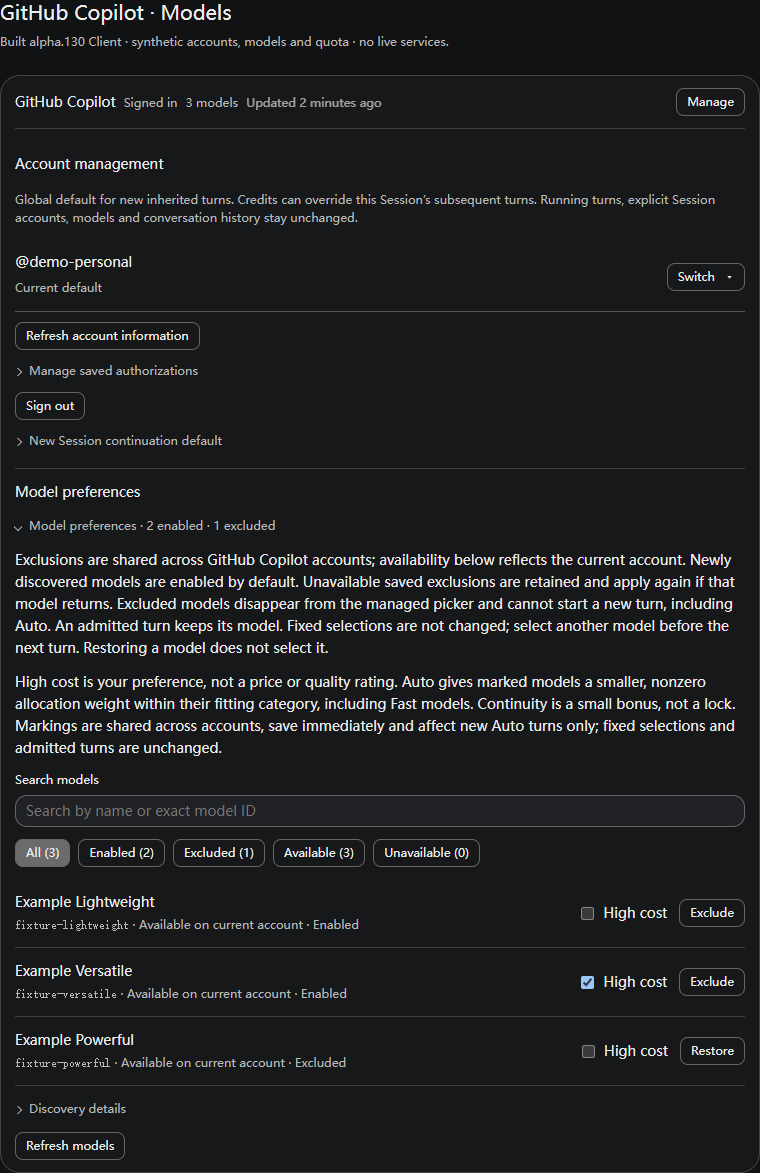
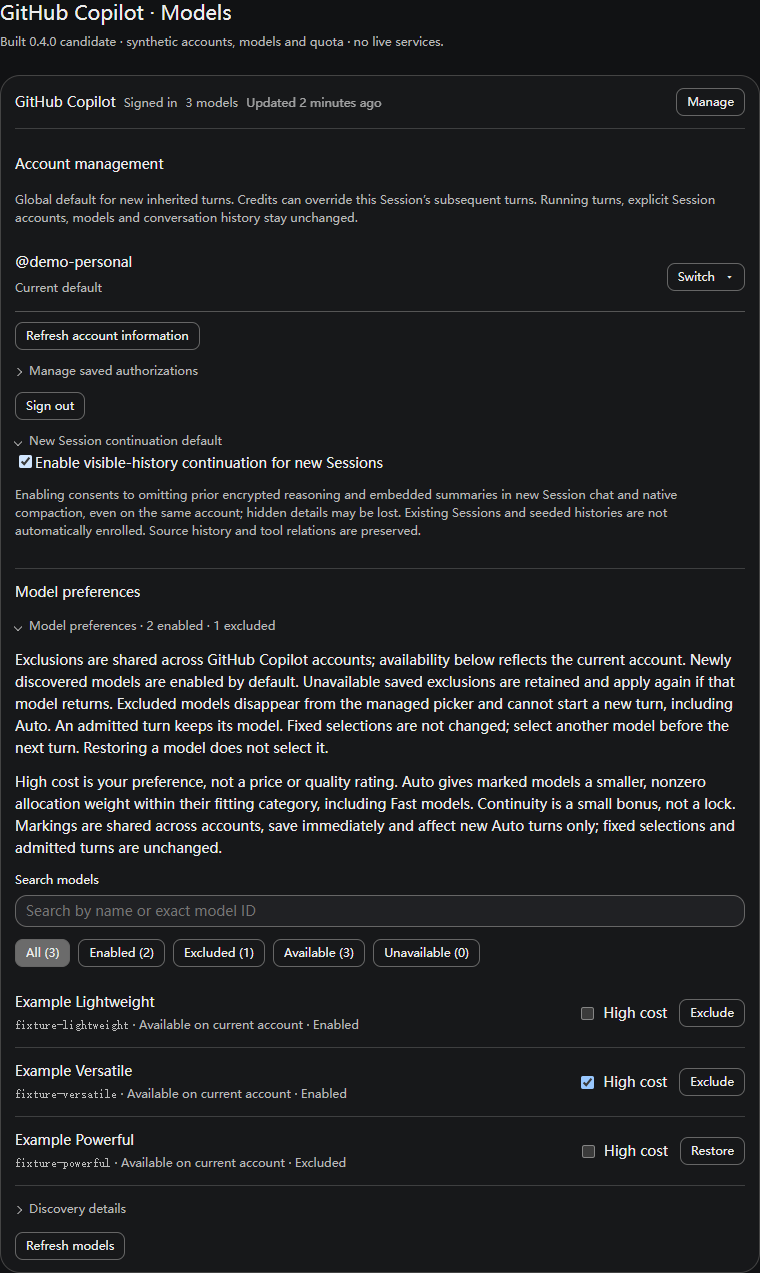
Release v0.4.0 stable with current settings guidance (#382)
* release: promote 0.4.0 and refresh user guidance

Fixes #381

Assisted-by: GitHub Copilot

* test: assert visible-history policy in screenshot fixture

Assisted-by: GitHub Copilot

* test: capture expanded continuation disclosure

Assisted-by: GitHub Copilot

* docs: add current settings screenshots (#381)

Assisted-by: GitHub Copilot

---------

diff --git a/tests/browser/readme.html b/tests/browser/readme.html
@@ -9,12 +9,12 @@
 main{max-width:760px;margin:auto}h1{font-size:20px;font-weight:500;margin:0 0 8px}.fixture-note{font-size:12px;line-height:18px;color:var(--dsw-alias-label-secondary);margin:0 0 24px}body[data-surface=credits] #app{min-height:calc(100vh - 130px);display:flex;align-items:flex-end}body[data-theme=light]{color-scheme:light;--dsw-alias-bg-layer-1:#fff;--dsw-alias-label-primary:#242424;--dsw-alias-label-secondary:#595959;--dsw-alias-border-l2:#999;--dsw-alias-settings-card-fill:#fff;--dsw-alias-settings-card-stroke:#bbb;background:#fafafa;color:#242424}@media(max-width:480px){body{padding:16px 12px}}
 </style></head><body><main>
 <h1 id="title">GitHub Copilot · Models</h1>
-<p class="fixture-note">Built alpha.130 Client · synthetic accounts, models and quota · no live services.</p>
+<p class="fixture-note">Built __CLIENT_VERSION__ candidate · synthetic accounts, models and quota · no live services.</p>
 <div id="app"></div>
 </main>
 <script src="/react.js"></script><script src="/react-dom.js"></script>
-<script>window.__ModuleLoader__={load:entry=>{window.CopilotUI=entry.factory(id=>{if(id==='react')return window.React;throw new Error('Unexpected dependency: '+id)})}};</script>
-<script src="/client.js"></script>
+<script>window.__ModuleLoader__={load:entry=>{const value=entry.factory(id=>{if(id==='react')return window.React;throw new Error('Unexpected dependency: '+id)});if(entry.id==='dsh-github-copilot')window.CopilotUI=value;else if(entry.id==='dsh-github-copilot-continuation-capture')window.CopilotContinuation=value}};</script>
+<script src="/client.js"></script><script src="/continuation.js"></script>
 <script>
 const h=React.createElement, UI=window.CopilotUI, q=new URLSearchParams(location.search);
 document.body.dataset.theme=q.get('theme')||'dark';
@@ -38,6 +38,7 @@ const remote={status:()=>ok(view),getModelPreferences:()=>ok(preferences),setMod
 const accountsRemote={get:()=>ok(accounts),ensureIdentity:()=>ok(accounts),refreshIdentity:()=>ok(accounts),
   add:forbidden,cancel:forbidden,switchAccount:forbidden,reauthorize:forbidden,removeAccount:forbidden};
 const continuationRemote={defaults:()=>ok({enabled:true,revision:7}),setDefault:forbidden};
+const sessionContinuationRemote={get:()=>ok({enabled:true,revision:7,activeTurnEnabled:false,source:'session'}),set:forbidden};
 const sessionView={source:'global',accountId:'canonical',globalAccountId:'canonical',accounts};
 const usage={accountId:'canonical',state:'ready',billing:'credits',budget:'individual',used:42.25,remaining:57.75,limit:100,percentUsed:42.25,observedAt:now};
 const root=ReactDOM.createRoot(document.getElementById('app'));
@@ -52,7 +53,9 @@ if(q.get('surface')==='settings'){
   document.getElementById('title').textContent='GitHub Copilot · Session Credits';
   root.render(h(UI.CopilotUsageCard,{contextKey:'synthetic-session',locale:'en-US',
     remote:{get:()=>ok(usage),refresh:()=>ok(usage)},accountsRemote,
-    sessionAccount:{get:()=>ok(sessionView),set:forbidden}}));
+    sessionAccount:{get:()=>ok(sessionView),set:forbidden},
+    continuation:h(window.CopilotContinuation.SessionContinuationCard,{sessionId:'synthetic-session',
+      remote:sessionContinuationRemote,locale:'en-US',expanded:true})}));
 }else root.render(h(UI.GitHubCopilotCompactAccount,{remote,account,accountsRemote,continuationRemote,locale:'en-US'}));
-window.fixture={synthetic:true,version:'0.4.0-alpha.130'};
+window.fixture={synthetic:true,version:'__CLIENT_VERSION__'};
 </script></body></html>

diff --git a/tests/browser/capture-continuation.config.ts b/tests/browser/capture-continuation.config.ts
@@ -1,0 +1,23 @@
+import { defineConfig } from 'tsdown'
+
+export default defineConfig({
+  name: 'readme-continuation-capture',
+  entry: { continuation: 'continuation-capture-entry.ts' },
+  outDir: '../../artifacts/readme-capture',
+  format: 'cjs',
+  platform: 'browser',
+  target: 'es2024',
+  dts: false,
+  sourcemap: false,
+  clean: true,
+  deps: {
+    neverBundle: specifier => specifier === 'react',
+    alwaysBundle: specifier => specifier !== 'react',
+  },
+  outputOptions: {
+    entryFileNames: 'continuation.js',
+    banner: 'window.__ModuleLoader__.load({ id: "dsh-github-copilot-continuation-capture", factory: (require) => {',
+    footer: 'return module.exports; } });',
+    intro: 'var module = { exports: {} }; var exports = module.exports;',
+  },
+})

diff --git a/tests/browser/continuation-capture-entry.ts b/tests/browser/continuation-capture-entry.ts
@@ -1,0 +1,1 @@
+export { SessionContinuationCard } from '../../src/session-continuation-ui.ts'

diff --git a/README.md b/README.md
@@ -1,14 +1,14 @@
 # dsh-github-copilot
 
 [![CI](https://github.com/cloga/dsh-github-copilot/actions/workflows/ci.yml/badge.svg)](https://github.com/cloga/dsh-github-copilot/actions/workflows/ci.yml)
-[![Release](https://img.shields.io/github/v/release/cloga/dsh-github-copilot?include_prereleases)](https://github.com/cloga/dsh-github-copilot/releases)
+[![Release](https://img.shields.io/github/v/release/cloga/dsh-github-copilot)](https://github.com/cloga/dsh-github-copilot/releases)
 [![License](https://img.shields.io/github/license/cloga/dsh-github-copilot)](./LICENSE)
 
 **English** | [简体中文](./README.zh.md)
 
 GitHub Copilot account discovery, contextual Auto routing and hosted search for DSH. The plugin reuses DSH's published native adapter, retaining a profile-wide account default with independent Session next-turn choices; it does not patch Core or maintain a second model catalog.
 
-**Current release: [`0.4.0-alpha.134`](https://github.com/cloga/dsh-github-copilot/releases/tag/v0.4.0-alpha.134). Supported host: official DSH / Windows Desktop `0.2.0-rc.2`.** This is still an alpha release, not a stable-channel promotion. Earlier DSH pins are historical evidence, not supported installation targets. Published, installed in a profile and loaded by a running Host are separate states.
+**First stable release: [`0.4.0`](https://github.com/cloga/dsh-github-copilot/releases/tag/v0.4.0). Supported host: official DSH / Windows Desktop `0.2.0-rc.2`.** The stable version is also published on npm's `latest` dist-tag; prereleases remain on their channel tags. Stability-channel promotion does not expand the qualified host baseline or prove live account, model, search or Desktop health. Earlier DSH pins are historical evidence, not supported installation targets. Published, installed in a profile and loaded by a running Host are separate states.
 
 ## What you can do
 
@@ -54,21 +54,26 @@ Replace the placeholders with the reviewed file/profile and a new absolute outpu
 | Sign in and manage account models | **Settings → Models → GitHub Copilot → Sign in** |
 | Add or switch GitHub accounts | **Manage → Account management → Switch**; managed-only profiles |
 | Select this Session's next-turn account | **Credits → Switch account**; saved authorizations only |
+| Return this Session to the global default account | **Credits → Follow global default**; account selection only, not the model |
 | Exclude or restore individual models | **Manage → Model preferences** |
 | Choose models automatically | Pick **Auto · Balance**, **Auto · Efficiency** or **Auto · Intelligence** |
 | Follow a parent model in supported subagents | **Plugins → dsh-github-copilot → Details → Follow parent model** |
 | Choose primary/fallback search providers | **Plugin details → Web search** |
+| Set the visible-history default for new Sessions | **Settings → Models → GitHub Copilot → Manage → New Session continuation default** |
+| Enable visible-history for an existing Session | Select a managed Copilot model, open the composer **Credits/usage** pill → **Visible-history continuation** → **Session policy → On** |
 | Read account Credits and context evidence | Copilot Session composer; native Turn Usage stays separate |
 
-![Current built Client account controls and model preferences](./docs/images/copilot-model-preferences.png)
+![Client account controls and model preferences](./docs/images/copilot-model-preferences.png)
 
-Current alpha.130 built Client components in an isolated browser, with synthetic accounts and models. Manage contains account controls, continuation defaults and model preferences, including High cost. This is presentation evidence, not live sign-in, model availability or loaded Desktop proof.
+This 0.4.0 release-candidate capture uses the built Client with synthetic accounts and models. It shows the Models account controls, the expanded **New Session continuation default**, and exact-ID model preferences including High cost. The default applies only to eligible Sessions created after its policy epoch; it does not enroll existing or seeded histories. This is not live sign-in, model availability or loaded Desktop proof.
 
 ![Switching between saved GitHub accounts in Models](./docs/images/copilot-accounts.png)
 
 ![Session account selection and account-wide quota in Credits](./docs/images/copilot-accounts-credits.png)
 
-These captures use the same current built components and synthetic identities/quota. Models changes the global default; Credits changes only this Session's subsequent turns. They do not show real accounts or billing data. [Capture provenance](./docs/images/copilot-current-provenance.json) accompanies the images.
+![Existing Session visible-history policy in the composer Credits popover](./docs/images/copilot-session-continuation.png)
+
+These Credits captures use the 0.4.0 release-candidate Client and synthetic identities, quota and Session state. The account panel shows **Follow global default** for this Session's account choice; the continuation capture shows the persistent **Session policy → On** disclosure, same-account loss notice and next-turn boundary. No real account or billing data is shown; no message is sent or retried. [Capture provenance](./docs/images/copilot-current-provenance.json) accompanies the images.
 
 ## Install and sign in
 
@@ -85,10 +90,10 @@ Supply any launcher patches with repeated `--patch /absolute/file`. Require `sup
 For a **standalone named profile**:
 
 ```sh
-dsh plugin --profile web add https://github.com/cloga/dsh-github-copilot/releases/download/v0.4.0-alpha.134/dsh-github-copilot-0.4.0-alpha.134.tgz
+dsh plugin --profile web add https://github.com/cloga/dsh-github-copilot/releases/download/v0.4.0/dsh-github-copilot-0.4.0.tgz
 ```
 
-For **Desktop**, its native package manager accepts `dsh-github-copilot@0.4.0-alpha.134` after publication. Official rc.2's **Desktop-bundled CLI** also supports reserved-profile plugin management; a global/generic `dsh` shim is not equivalent. Qualify the installed entry before use. See [Desktop CLI qualification](./docs/npm-distribution.md#desktop-bundled-cli-on-official-rc2) and the distinct [standalone offline procedure](./docs/npm-distribution.md#controlled-offline-cli-maintenance-for-standalone-profiles). Neither path authorizes registry-policy bypass, peer patches or configuration deletion.
+For **Desktop**, its native package manager accepts the exact stable npm spec `dsh-github-copilot@0.4.0`; stable versions publish on npm's `latest` dist-tag. The official rc.2 **Desktop-bundled CLI** also supports reserved-profile plugin management; a global/generic `dsh` shim is not equivalent. Qualify the installed entry before use. See [Desktop CLI qualification](./docs/npm-distribution.md#desktop-bundled-cli-on-official-rc2) and the distinct [standalone offline procedure](./docs/npm-distribution.md#controlled-offline-cli-maintenance-for-standalone-profiles). Neither path authorizes registry-policy bypass, peer patches or configuration deletion.
 
 After an approved reload/restart:
 
@@ -139,13 +144,13 @@ Explicit Auto intent survives native pending-selection consumption and cold rest
 
 ## Subagents and search
 
-![Current parent-following and Web search controls](./docs/images/copilot-search-routing.png)
+![Parent-following and Web search controls](./docs/images/copilot-search-routing.png)
 
-Current alpha.130 built plugin-detail page with synthetic settings/providers and paused, empty diagnostics. No search, collection or live service was invoked for this capture.
+This 0.4.0 release-candidate capture shows the built Client's parent-following switch, Web search routing and default-off local diagnostics together. Settings/providers and paused, empty diagnostics are synthetic. No search, collection or live service was invoked for the capture; see [provenance](./docs/images/copilot-current-provenance.json).
 
 **Follow parent model** defaults Off and applies profile-wide to supported native children/Team mates of managed Copilot parents. Fixed parents apply on each child's next turn; Auto parents pass the exact preference while each child evaluates its own context. Child-owned explicit selections win. Running turns, roots, forks, other providers and dedicated legacy policies are not rewritten. Existing legacy bindings remain independent when the broad switch is Off. [Parent-following contract](./docs/parent-model-follow.md).
 
-**Web search** has two ordinary controls: primary provider and final fallback. Auto follows the initiating Chat provider when a corresponding search registration exists; fixed choices stay fixed when Chat changes. At most one distinct final fallback is tried, with possible charges disclosed. Cancellation/account-proof loss never authorizes a fallback.
+**Web search** has two ordinary controls in the plugin-detail page: primary provider and final fallback. Routing can be saved without Copilot sign-in or account-model discovery; the choices must be registered search providers. Saving only records routing and does not prove Copilot search capability, which is checked when a search runs. Auto follows the initiating Chat provider when a corresponding search registration exists; fixed choices stay fixed when Chat changes. At most one distinct final fallback is tried, with possible charges disclosed. Cancellation/account-proof loss never authorizes a fallback.
 
 Copilot search requires current account/protocol evidence and capability proof. Fixed/fallback Copilot preserves a nonempty legacy `searchModel`; otherwise it considers at most three account-owned Responses candidates. The final user query is sent once, never replayed across those candidates. A saved choice or successful Chat request does not prove hosted search. [Search routing and composition](./docs/session-search-routing.md).
 The legacy `github-copilot.searchFallback` setting applies only to its separate
@@ -218,9 +223,11 @@ Configuration is under `github-copilot`. Credentials, endpoint definitions and a
 
 Confirmed account saves restore controls immediately, independently of quota loading. Changing only follow mode for the same account retains its attributed quota without another read. Switching accounts clears the old quota and loads the new snapshot without blocking further account edits; quota errors do not undo a confirmed selection.
 
-The Credits account panel shows the current account and **Switch account**. Its dropdown lists only configured accounts, marks the effective account and scrolls long lists internally. **Follow global default** is a separate checkbox: enabling it clears the Session override; disabling it fixes the current account. Choosing any account also fixes it, even if it is today's default. Both actions retain continuation confirmation and revision-checked saving. Account addition belongs only in Models, where one **Manage** disclosure contains account management and shared model preferences. Models retains Add in its dropdown footer without selecting the new account, plus guarded local removal and reauthorization. Neither surface has account search. Exact-ID exclusions are shared across accounts; availability is account-specific. See the [approved experience and interactive mock](./docs/account-management-experience.md).
+The Credits account panel shows the current account and **Switch account**. Its dropdown lists only configured accounts, marks the effective account and scrolls long lists internally. **Follow global default** is a separate checkbox for the account only—not the global model choice: enabling it clears this Session's account override; disabling it fixes the current account. Choosing any account also fixes it, even if it is today's default. The choice affects subsequent turns in this Session, not a running turn or another Session. Both actions retain continuation confirmation and revision-checked saving. Account addition belongs only in Models, where one **Manage** disclosure contains account management and shared model preferences. Models retains Add in its dropdown footer without selecting the new account, plus guarded local removal and reauthorization. Neither surface has account search. Exact-ID exclusions are shared across accounts; availability is account-specific. See the [approved experience and interactive mock](./docs/account-management-experience.md).
 
-[Visible-history continuation](./docs/session-continuation.md) is configured beside account switching, not permanently above the composer. New unseeded Sessions default on after the feature's first successful activation; existing Sessions and inherited histories remain off unless explicitly authorized. Global defaults affect new Sessions only; Session on/off overrides persist across accounts/restarts until disabled. With continuation off, a different-account switch offers persistent enable, keep off or cancel, without a one-turn mode. Each new enabled turn omits prior encrypted reasoning and embedded summaries, even on the same account; current-turn reasoning, visible messages, tools and disk history remain unchanged. Authorization never auto-sends/retries and is not a quota/context cure. Exact replay failures expose the same policy and require a separate native retry. The pinned Core lacks a public Models deep link; Chat omits the nonfunctional management entry. Full management remains in Settings → Models → GitHub Copilot → Manage.
+[Visible-history continuation](./docs/session-continuation.md) has two controls: **Manage → New Session continuation default** sets what eligible new Sessions inherit; **Credits → Visible-history continuation → Session policy** controls the current Session. The initial default-on epoch is recorded at first successful activation. Only new, unseeded Sessions created after that epoch inherit it; existing, seeded/forked, or unknown histories are not enrolled retroactively. Changing the global default affects future Sessions only.
+
+The name “New Session” describes default inheritance, not a one-message feature: an enabled Session policy is frozen at admission for each subsequent managed Copilot turn and also governs that Session's managed native compaction summaries. For an existing eligible Session, select the managed Copilot model, open the composer **Credits/usage** pill, expand **Visible-history continuation**, then choose **On** in **Session policy**. This control appears only for an open Session using the managed account-discovered route; it is not shown for the canonical/native route. The loss disclosure is shown before the choice. Enabling is explicit consent to omit prior encrypted reasoning and embedded summaries, even on the same account; hidden details may be lost, while visible messages, tool relations and source history remain. The policy persists across account switches and restarts until changed. It takes effect on the next turn; an already admitted turn keeps its captured policy. With continuation off, switching to a different account offers persistent enable, keep off or cancel—there is no next-turn-only choice. `/copilot-compact visible-history` is a separate one-time operation through the selected recovery engine, not the persistent Session setting. Neither path auto-sends/retries or cures quota/context limits; exact replay failures use the same persistent Session policy and require a separate native retry. The pinned Core lacks a public Models deep link, so Chat omits the nonfunctional management entry.
 
 Context evidence and Replay recovery use compact, centered notices bounded by the native composer width. Model/item counts and status refresh live in collapsed technical details; loss consent remains explicit. Context sampling warns only for a concrete incident, can be dismissed for that Session/incident, and never asserts the native meter's current value; native statistics stay unchanged. Switching accounts does not make old encrypted reasoning portable. The concise scope error points to explicit recovery or a new conversation; bounded, sanitized dispatch counts stay in Host diagnostics, not the main error. **Authorized** means permission is ready, not that a message was sent or recovery succeeded.
 
@@ -262,14 +269,14 @@ Commit attribution uses `Assisted-by` with the actual tool, never the model prov
 GitHub Releases and npm distribute the same original verified tarball. Pin a version; verify Release SHA-256 or npm `dist.integrity`. Never repack an immutable release or move/reuse its tag.
 
 ```sh
-curl -LO https://github.com/cloga/dsh-github-copilot/releases/download/v0.4.0-alpha.134/dsh-github-copilot-0.4.0-alpha.134.tgz
-curl -LO https://github.com/cloga/dsh-github-copilot/releases/download/v0.4.0-alpha.134/SHA256SUMS
+curl -LO https://github.com/cloga/dsh-github-copilot/releases/download/v0.4.0/dsh-github-copilot-0.4.0.tgz
+curl -LO https://github.com/cloga/dsh-github-copilot/releases/download/v0.4.0/SHA256SUMS
 sha256sum --check SHA256SUMS
 ```
 
 ```powershell
 $expected = (Get-Content .\SHA256SUMS).Split()[0]
-$actual = (Get-FileHash .\dsh-github-copilot-0.4.0-alpha.134.tgz -Algorithm SHA256).Hash.ToLowerInvariant()
+$actual = (Get-FileHash .\dsh-github-copilot-0.4.0.tgz -Algorithm SHA256).Hash.ToLowerInvariant()
 if ($actual -cne $expected) { throw 'Release checksum mismatch' }
 ```
 

diff --git a/docs/manual-compaction-recovery.md b/docs/manual-compaction-recovery.md
@@ -43,6 +43,18 @@ Status and cancellation apply only to the invoking Agent's latest job. Duplicate
 
 For a verified `COPILOT_RESPONSES_REPLAY_SCOPE_MISMATCH`, repeating the same summary cannot repair supplier-scoped encrypted replay. The existing **Visible-history continuation** Session policy now authorizes managed Responses summaries as well as chat: ordinary `/compact`, `/copilot-compact` and automatic compaction apply it before dispatch, without a failure-first retry or extra command. The active turn retains its captured persistent policy; idle summaries capture the Session policy. Disabled/unknown policy never silently enables loss, and legacy next-turn-only consent does not authorize summaries. Stock and selected recovery engines remain independently owned. An additive composer notice reports filtering and distinguishes native commit, failure and cancellation; exact scope rejection when off offers the same persistent enable control. This is not a capacity/timeout/quota cure or permission to enable an absent engine.
 
+For an existing open Session on the managed account-discovered Copilot route,
+the persistent control is in the composer **Credits/usage** popover: expand
+**Visible-history continuation**, review the loss disclosure, then choose
+**On** under **Session policy**. The control is not shown for the
+canonical/native route. Enabling applies to subsequent turns and summaries in
+that Session even when the account does not change; an already admitted turn
+keeps its captured policy. The **New Session continuation default** in Models
+is separate and only determines inheritance for eligible new Sessions. See
+[the synthetic composer capture](./images/copilot-session-continuation.png) and
+[Session continuation](./session-continuation.md) for the complete admission,
+scope and persistence contract.
+
 `/copilot-compact visible-history` remains explicit consent for **one lossy manual compaction operation** through the selected engine, without changing the persistent checkbox. Managed Responses summary requests omit historical encrypted reasoning items **and their embedded summaries**, while retaining visible messages, tool calls/results, the system head and native final directive. Hidden reasoning may contain details absent from visible messages. Review this loss before enabling the policy or issuing the one-time command.
 
 Consent is local to the native summarizer's exact cancellation signal, Session and summary model, including its bounded segments. It is revoked on completion, failure, cancellation or teardown. No unrelated request, subsequent command or automatic retry inherits it. Unknown or incomplete reasoning fails closed. No replay is decrypted, fabricated or written back; original source events remain unchanged and only Core can commit the final smaller checkpoint. The command adds no retry or model/account switch, and does not repair supplier scope. Missing managed integration or an unsupported summary route fails explicitly.

diff --git a/docs/account-management-experience.md b/docs/account-management-experience.md
@@ -34,9 +34,23 @@ keeps its admitted account and policy. Save failures retain their real uncertain
 and never imply that a change succeeded. Session explicit choices do not change
 other Sessions or the global default.
 
-The same panel includes a collapsible continuation policy. Full management belongs
-in Models; show a "Manage accounts and models" entry only with a working public
-navigation callback. Do not show a disabled link or unavailable-navigation paragraph.
+The composer Credits/usage pill opens a popover that includes a collapsible
+**Visible-history continuation** disclosure only while the viewed Session is
+open and its effective selection is the managed account-discovered Copilot
+route. Expand it and choose **On** under **Session policy** to explicitly enable
+an existing Session; the loss disclosure appears before the choice. The
+canonical/native route does not show this control. Saving sets a persistent
+Session policy, not the new-Session default: it applies to subsequent turns and
+managed native compaction in that Session, including when the account does not
+change. The active turn retains its admitted policy. No message is sent or
+retried by enabling it.
+See the [synthetic composer capture](./images/copilot-session-continuation.png);
+it shows the control's appearance, not a live Session or policy read.
+
+The separate **New Session continuation default** is managed in Models under
+GitHub Copilot → Manage. Full account management belongs in Models; show a
+"Manage accounts and models" entry only with a working public navigation
+callback. Do not show a disabled link or unavailable-navigation paragraph.
 Opening and closing Settings must not discard the composer draft or change the
 selected Session. Direct navigation and automatic expansion depend on published
 navigation APIs; absent support leaves navigation to ordinary Settings, never
@@ -85,6 +99,12 @@ embedded summaries, including on the same account. Visible messages, tool
 calls/results and stored history remain unchanged. Current-turn reasoning stays
 available for tool steps and native retries. This does not solve quota, HTTP 408
 or oversized context and does not guarantee supplier acceptance.
+
+This is a persistent Session policy, not only a one-time summary consent. Its
+enabled state is captured at new-turn admission and also governs summaries
+inside an observed managed native compaction bracket. Explicit visible-history
+consent does not send or retry chat; the user must separately invoke native
+Retry when appropriate.
 
 When continuation is off and the user switches accounts, stop before saving the
 selection and disclose the potential replay risk. Offer persistent enable and

diff --git a/docs/copilot-accounts.md b/docs/copilot-accounts.md
@@ -3,10 +3,10 @@
 ## Delivery status
 
 This document records the approved requirements and implementation design for
-issues #297 and #305. Candidate behavior is not released or installed until the
-acceptance gates below complete. The existing single-account behavior remains
-the compatibility baseline. The current source candidate is `0.4.0-alpha.107`;
-publication, installation and loaded runtime state are separate evidence.
+issues #297 and #305. It is not a release receipt or a claim of current
+installation/runtime state. The existing single-account behavior remains the
+compatibility baseline; publication, installation and loaded runtime state are
+separate evidence.
 
 ## Requirements
 
@@ -262,10 +262,17 @@ the preference while a turn runs leaves that turn's old account pinned; the
 popover identifies it separately. Other Sessions are unchanged. Unknown identity
 is unavailable, not a stale username presented as current.
 
-One Models **Manage** groups account management and shared exact-ID model
-preferences. The Credits account panel contains continuation policy; when off,
-an account change pauses for explicit persistent-enable/keep-off/cancel consent.
-See [the approved experience and mock](./account-management-experience.md).
+One Models **Manage** groups account management, the new-Session continuation
+default and shared exact-ID model preferences. The existing Session policy is
+under the composer Credits/usage popover → **Visible-history continuation** →
+**Session policy**; it appears only for an open Session whose effective model
+is the managed account-discovered Copilot route. Choose **On** after reviewing
+the loss disclosure. This is distinct from the Models new-Session default and
+applies to subsequent turns and managed native compaction summaries, including
+on the same account. Active turns keep their captured policy; enabling does not
+send or retry a message. See the [synthetic composer capture](./images/copilot-session-continuation.png)
+and [continuation contract](./session-continuation.md). When off, an account change pauses for explicit
+persistent-enable/keep-off/cancel consent. See the [approved experience and mock](./account-management-experience.md).
 
 Completed managed turns have a compact **Account** disclosure alongside native
 Usage/selection actions through the public assistant-actions slot. This is

diff --git a/docs/session-continuation.md b/docs/session-continuation.md
@@ -7,14 +7,27 @@ their same-provider/API/model check does not establish Copilot account identity.
 
 ## Experience
 
-The Credits account panel contains **Visible-history continuation**. New,
-unseeded Sessions created after this feature's first successful activation default
-on. Activation persists a bounded creation-time policy epoch using Settings CAS;
-existing Sessions, seeded histories, forks and unknown birth evidence remain off.
-Manage the global default in **Models → GitHub Copilot → Manage → Account management**.
-Changing it affects only subsequently created Sessions. Session overrides
-(on, off or creation-time default) persist across account changes and restarts.
-No failed request is required first and no hourly confirmation is needed.
+The composer **Credits/usage** pill opens a popover containing
+**Visible-history continuation** only for an open Session whose effective
+selection is the managed account-discovered Copilot route. Expand it and set
+**Session policy → On** to explicitly enable an existing Session after
+reviewing the loss disclosure. The canonical/native route does not show this
+control.
+
+![Built Client continuation policy in the composer Credits popover](./images/copilot-session-continuation.png)
+
+This 0.4.0 release-candidate capture uses synthetic Session state and quota;
+[capture provenance](./images/copilot-current-provenance.json) records the
+source commit, build and image hashes. It is not evidence of live availability.
+
+New, unseeded Sessions created after this feature's first successful
+activation default on. Activation persists a bounded creation-time policy
+epoch using Settings CAS; existing Sessions, seeded histories, forks and
+unknown birth evidence remain off. Manage the separate new-Session default in
+**Models → GitHub Copilot → Manage → New Session continuation default**.
+Changing it affects only subsequently created Sessions. Session overrides (on, off or
+creation-time default) persist across account changes and restarts. No failed
+request is required first and no hourly confirmation is needed.
 
 The enabled disclosure stays compact. Details contain the disable action.
 Enable/disable changes affect future turns; the active turn retains its captured
